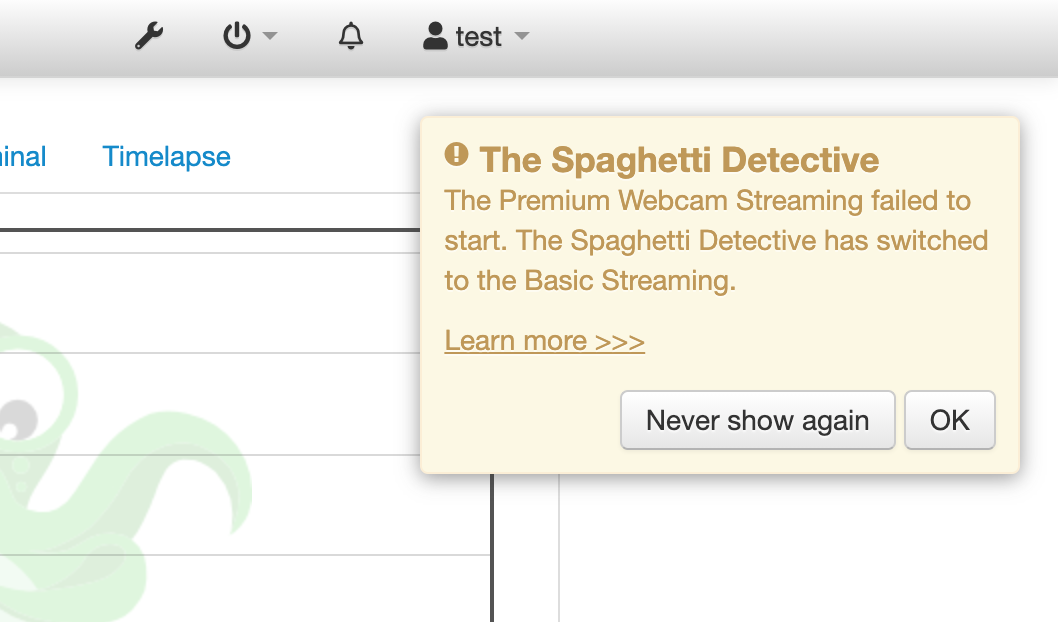
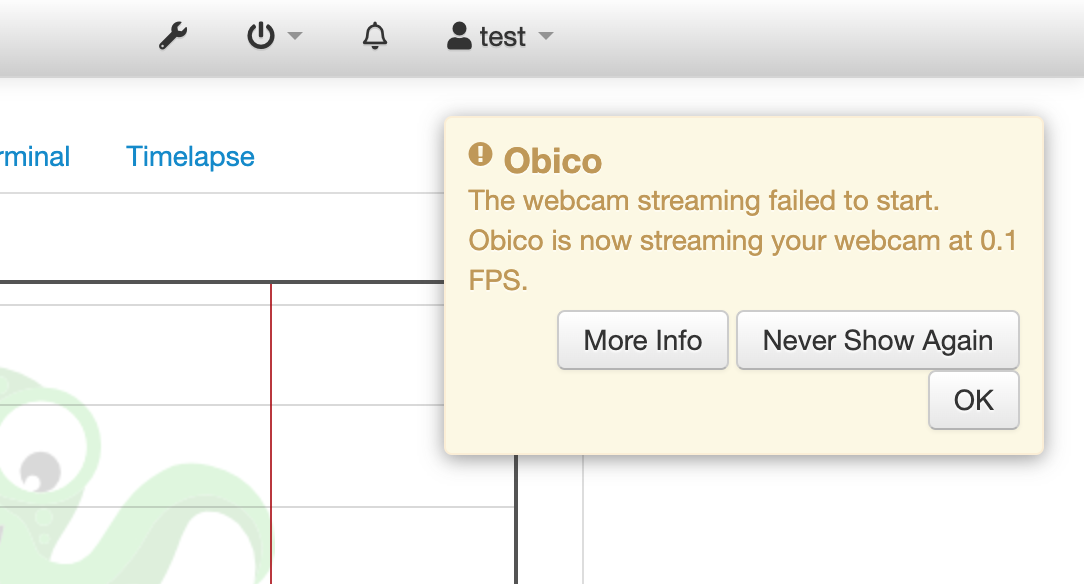
Webcam resolution docs updated

diff --git a/website/sidebars.js b/website/sidebars.js
@@ -23,24 +23,13 @@ module.exports = {
     },
     {
       type: 'category',
-      label: 'Obico for OctoPrint',
-      items: ['user-guides/octoprint-plugin-setup-manual-link', 'user-guides/check-webcam-streaming-mode', 'user-guides/octoprint-webcam-not-streaming'],
-    },
-    {
-      type: 'category',
-      label: 'Obico for Klipper',
-      link: {type: 'doc', id: 'user-guides/moonraker-obico/overview'},
-      items: ['user-guides/moonraker-obico/config', 'user-guides/moonraker-obico/logging-file', 'user-guides/moonraker-obico/update-manager', 'user-guides/moonraker-obico/uninstall'],
+      label: 'Obico App (Mobile & Web)',
+      items: ['user-guides/detection-print-job-settings', 'user-guides/printer-feed-sharing', 'user-guides/notification-settings'],
     },
     {
       type: 'category',
       label: 'Failure Detection',
       items: ['user-guides/how-to-test-failure-detection', 'user-guides/failure-detection-false-alarms', 'user-guides/optimal-camera-setup', 'user-guides/how-does-credits-work', 'user-guides/help-the-detective-improve', 'user-guides/detective-not-watching',],
-    },
-    {
-      type: 'category',
-      label: 'Use The App',
-      items: ['user-guides/detection-print-job-settings', 'user-guides/printer-feed-sharing', 'user-guides/octoprint-tunneling', 'user-guides/notification-settings'],
     },
     {
       type: 'category',
@@ -88,6 +77,29 @@ module.exports = {
         'user-guides/turn-on-debug-logging',
         'user-guides/send-mobile-app-log-files',
       ],
+    },
+    {
+      type: 'category',
+      label: 'Obico for OctoPrint',
+      items: [
+        'user-guides/octoprint-plugin-setup-manual-link',
+        'user-guides/octoprint-tunneling',
+        {
+          type: 'category',
+          label: 'Webcam Settings',
+          items: [
+            'user-guides/webcam-streaming-resolution-framerate-octoprint',
+            'user-guides/check-webcam-streaming-mode',
+            'user-guides/octoprint-webcam-not-streaming',
+          ],
+        },
+      ],
+    },
+    {
+      type: 'category',
+      label: 'Obico for Klipper',
+      link: {type: 'doc', id: 'user-guides/moonraker-obico/overview'},
+      items: ['user-guides/moonraker-obico/config', 'user-guides/webcam-streaming-resolution-framerate-klipper', 'user-guides/moonraker-obico/logging-file', 'user-guides/moonraker-obico/update-manager', 'user-guides/moonraker-obico/uninstall'],
     },
     'user-guides/contact-us-for-support',
   ],

diff --git a/website/docs/user-guides/webcam-streaming-resolution-framerate-octoprint.md b/website/docs/user-guides/webcam-streaming-resolution-framerate-octoprint.md
@@ -1,0 +1,113 @@
+---
+title: Webcam streaming resolution and frame rate (OctoPrint)
+---
+
+:::tip
+Most of the time you can leave the Obico for OctoPrint to pick the appropriate webcam streaming resolution and frame rate. You don't have to worry about them.
+:::
+
+:::caution
+If you are using a Raspberry Pi, please keep in mind that it has a weak CPU. If the resolution and/or frame rate is set to high, it may overwhelm the Pi's CPU and hence cause print quality issues.
+:::
+
+## Find out your webcam's streaming mode. {#find-out-your-webcams-streaming-mode}
+
+The resolution and frame rate depends on the webcam's streaming mode.
+
+Follow [this guide](/docs/user-guides/check-webcam-streaming-mode) to find out the webcam streaming mode.
+
+:::info
+Learn more about [Premium Streaming vs Basic Streaming](/docs/user-guides/webcam-streaming-for-human-eyes).
+:::
+
+:::info
+Learn more about [advanced mode and compatibility mode](/docs/user-guides/streaming-compatibility-mode).
+:::
+
+## "**Premium (advanced)**" streaming mode: {#if-the-streaming-mode-is-premium-advanced}
+
+This means the webcam is in the Premium Streaming (advanced mode). In this mode, there are only limited options for resolutions and frame rates.
+
+**If you want to set your own resolution and frame rate, you will need to [change the compatibility mode to "always"](/docs/user-guides/streaming-compatibility-mode#when-should-i-always-stream-in-the-compatibility-mode), then follow [the instructions for Premium Streaming (compatibility mode)](#if-the-streaming-mode-is-premium-compatibility-or-basic).**
+
+:::info
+The Premium Streaming (advanced mode) has to take total control of the webcam, such as the resolution, frame rate, auto-focus, etc., so that the stream can be encoded in highly-efficient H.264.
+:::
+
+:::note
+If you have changed webcam settings in "octopi.txt", you may be surprised to see these settings are no longer effective in the Premium Streaming (advanced mode).
+:::
+
+### Frame rate {#frame-rate}
+
+In the Premium Streaming (advanced mode), the frame rate is always 25 FPS (frames-per-second).
+
+### Resolution {#resolution}
+
+In the Premium Streaming (advanced mode), the webcam resolution depends on if you have a Pi Camera or a USB camera.
+
+#### If you have a Pi Camera: {#if-you-have-a-pi-camera}
+
+:::info
+Learn more about the [Pi Camera](https://projects.raspberrypi.org/en/projects/getting-started-with-picamera).
+:::
+
+If you have a Pi Camera, you can find or change its current resolution on the plugin's settings page.
+
+1. Open OctoPrint settings page by clicking the wrench icon (**🔧**).
+2. Scroll down the navigation bar on the left side.
+3. Click "Obico for OctoPrint" tab.
+4. Click the "Settings" button.
+
+![](/img/user-guides/helpdocs/tsd-plugin-open-settings-page.gif)
+
+Pi Camera's current resolution level is in the "Premium Streaming" section.
+
+If the webcam aspect ratio setting in OctoPrint is 4:3 (default):
+
+* Low: 320x240
+* Medium: 640x480
+* High: 1296x972
+* Ultra high: 1640x1232
+
+If you have changed the webcam aspect ratio setting in OctoPrint to 16:9:
+
+* Low: 480x270
+* Medium: 960x540
+* High: 1640x922
+* Ultra high: 1920x1080
+
+#### If you have a USB camera: {#if-you-have-a-usb-camera}
+
+When you have a USB camera and its streaming mode is "Premium (advanced)", the resolution is fixed at 640x480. This is due to some technical limitations on how the Premium streaming works in advanced mode. Your best option is to leave it as is.
+
+However, if you really want to change the resolution and/or the frame rate, follow these 2 steps:
+
+1. [Change the compatibility mode to "always"](/docs/user-guides/streaming-compatibility-mode#when-should-i-always-stream-in-the-compatibility-mode).
+
+2. Change the resolution and/or frame rate as instructed in [this section](#if-the-streaming-mode-is-premium-compatibility-or-basic).
+
+:::info
+There are simply too many USB camera models. 640x480 is the only resolution that all of them support. This is why the resolution is fixed at 640x480 in Premium Streaming (advanced mode).
+:::
+
+## Other streaming modes: {#if-the-streaming-mode-is-premium-compatibility-or-basic}
+
+:::danger
+When the webcam is not in "**premium (advanced)**" streaming mode, raising resolution and/or frame rate above the default values may cause potential issues:
+
+- Excessive amount of CPU usage and [potentially print quality issues](streaming-compatibility-mode.md/#more-about-cpu-usage-in-compatibility-mode).
+- The webcam stream [may be buffering](webcam-feed-is-laggy.md/#buffering) a lot when the resolution is set too high. Raspberry Pi has a weak CPU so it can't handle the load of encoding high-resolution streams.
+
+Most Raspberry Pi 4 users have reported they can set the resolution to 800x600 without any noticeable print quality or webcam streaming issues. Use caution when you go above 800x600.
+:::
+
+When the webcam streaming is in "**Basic**" mode, "**Premium (compatibility)**",  or "**0.1FPS**" mode, the Obico for OctoPrint plugin won't change the resolution or the frame rate. Instead, they are set by the OctoPrint's original streaming process.
+
+* If you have set up OctoPrint using the official OctoPi image, head to this [OctoPrint help document](https://community.octoprint.org/t/how-can-i-change-mjpg-streamer-parameters-on-octopi/203) to learn about how you can change the resolution and/or frame rate.
+
+* If you have replaced the original OctoPrint streaming process with a custom one, such as an IP Camera, you need to refer to the user manual of your custom streaming process to find out how you can adjust the settings.
+
+:::tip
+If you are running OctoPrint on a Raspberry Pi, the OctoPrint's built-in streaming program is called "mjpeg-streamer".
+:::

diff --git a/website/docs/user-guides/webcam-streaming-resolution-framerate.md b/website/docs/user-guides/webcam-streaming-resolution-framerate.md
@@ -1,109 +1,7 @@
 ---
-id: webcam-streaming-resolution-framerate
 title: Webcam streaming resolution and frame rate
 ---
 
-:::tip
-Most of the time you can leave The Spaghetti Detective plugin to pick the appropriate webcam streaming resolution and frame rate. You don't have to worry about them.
-:::
+- If you are using Obico for OctoPrint, follow [this guide to change resolution and/or frame rate](./webcam-streaming-resolution-framerate-octoprint.md).
 
-:::caution
-If you are using a Raspberry Pi, please keep in mind that it has a weak CPU. If the resolution and/or frame rate is set to high, it may overwhelm the Pi's CPU and hence cause print quality issues.
-:::
-
-## Find out your webcam's streaming mode. {#find-out-your-webcams-streaming-mode}
-
-The resolution and frame rate depends on the webcam's streaming mode.
-
-Follow [this guide](/docs/user-guides/check-webcam-streaming-mode) to find out the webcam streaming mode.
-
-:::info
-Learn more about [Premium Streaming vs Basic Streaming](/docs/user-guides/webcam-streaming-for-human-eyes).
-:::
-
-:::info
-Learn more about [advanced mode and compatibility mode](/docs/user-guides/streaming-compatibility-mode).
-:::
-
-## If the streaming mode is "**premium (advanced)**": {#if-the-streaming-mode-is-premium-advanced}
-
-This means the webcam is in the Premium Streaming (advanced mode). In this mode, there are only limited options for resolutions and frame rates.
-
-**If you want to set your own resolution and frame rate, you will need to [change the compatibility mode to "always"](/docs/user-guides/streaming-compatibility-mode#when-should-i-always-stream-in-the-compatibility-mode), then follow [the instructions for Premium Streaming (compatibility mode)](#if-the-streaming-mode-is-premium-compatibility-or-basic).**
-
-:::info
-The Premium Streaming (advanced mode) has to take total control of the webcam, such as the resolution, frame rate, auto-focus, etc., so that the stream can be encoded in highly-efficient H.264.
-:::
-
-:::note
-If you have changed webcam settings in "octopi.txt", you may be surprised to see these settings are no longer effective in the Premium Streaming (advanced mode).
-:::
-
-### Frame rate {#frame-rate}
-
-In the Premium Streaming (advanced mode), the frame rate is always 25 FPS (frames-per-second).
-
-### Resolution {#resolution}
-
-In the Premium Streaming (advanced mode), the webcam resolution depends on if you have a Pi Camera or a USB camera.
-
-#### If you have a Pi Camera: {#if-you-have-a-pi-camera}
-
-:::info
-Learn more about the [Pi Camera](https://projects.raspberrypi.org/en/projects/getting-started-with-picamera).
-:::
-
-If you have a Pi Camera, you can find or change its current resolution on the plugin's settings page.
-
-1. Open OctoPrint settings page by clicking the wrench icon (**🔧**).
-2. Scroll down the navigation bar on the left side.
-3. Click "Obico for OctoPrint" tab.
-4. Click the "Settings" button.
-
-![](/img/user-guides/helpdocs/tsd-plugin-open-settings-page.gif)
-
-Pi Camera's current resolution level is in the "Premium Streaming" section.
-
-If the webcam aspect ratio setting in OctoPrint is 4:3 (default):
-
-* Low: 320x240
-* Medium: 640x480
-* High: 1296x972
-* Ultra high: 1640x1232
-
-If you have changed the webcam aspect ratio setting in OctoPrint to 16:9:
-
-* Low: 480x270
-* Medium: 960x540
-* High: 1640x922
-* Ultra high: 1920x1080
-
-#### If you have a USB camera: {#if-you-have-a-usb-camera}
-
-When you have a USB camera and its streaming mode is "Premium (advanced)", the resolution is fixed at 640x480. This is due to some technical limitations on how the Premium streaming works in advanced mode. Your best option is to leave it as is.
-
-However, if you really want to change the resolution and/or the frame rate, follow these 2 steps:
-
-1. [Change the compatibility mode to "always"](/docs/user-guides/streaming-compatibility-mode#when-should-i-always-stream-in-the-compatibility-mode).
-
-2. Change the resolution and/or frame rate as instructed in [this section](#if-the-streaming-mode-is-premium-compatibility-or-basic).
-
-:::info
-There are simply too many USB camera models. 640x480 is the only resolution that all of them support. This is why the resolution is fixed at 640x480 in Premium Streaming (advanced mode).
-:::
-
-## If the streaming mode is "**Premium (compatibility)**" or "**Basic**": {#if-the-streaming-mode-is-premium-compatibility-or-basic}
-
-When the webcam streaming is in "**Basic**" mode, or "**Premium (compatibility)**" mode, The Spaghetti Detective plugin won't change the resolution or the frame rate. Instead, they are set by the OctoPrint's original streaming process before The Spaghetti Detective plugin was installed.
-
-* If you have set up OctoPrint using the official OctoPi image, head to this [OctoPrint help document](https://community.octoprint.org/t/how-can-i-change-mjpg-streamer-parameters-on-octopi/203) to learn about how you can change the resolution and/or frame rate.
-
-* If you have replaced the original OctoPrint streaming process with a custom one, such as an IP Camera, you need to refer to the user manual of your custom streaming process to find out how you can adjust the settings.
-
-:::danger
-Raising resolution and/or frame rate above the default values may result in an excessive amount of CPU usage and potentially print quality issues.
-:::
-
-:::info
-If you are running OctoPrint on a Raspberry Pi, the OctoPrint's built-in streaming program is called "mjpeg-streamer".
-:::
+- If you are using Obico for Klipper, follow [this guide to change resolution and/or frame rate](./webcam-streaming-resolution-framerate-klipper.md).

diff --git a/website/docs/user-guides/check-webcam-streaming-mode.md b/website/docs/user-guides/check-webcam-streaming-mode.md
@@ -14,13 +14,17 @@ title: Check the webcam streaming mode
 
 ## 2. Check "Webcam streaming" in the "Plugin Status" column {#2-check-webcam-streaming-in-the-plugin-status-column}
 
-![](/img/user-guides/helpdocs/tsd-plugin-webcam-streaming-mode.png)
+<img style={{maxWidth: "332px", padding: "16px",}} src="/img/user-guides/helpdocs/tsd-plugin-webcam-streaming-mode-advanced.png"></img>
+<img style={{maxWidth: "332px", padding: "16px",}} src="/img/user-guides/helpdocs/tsd-plugin-webcam-streaming-mode-compat.png"></img>
+<img style={{maxWidth: "332px", padding: "16px",}} src="/img/user-guides/helpdocs/tsd-plugin-webcam-streaming-mode-basic.png"></img>
+<img style={{maxWidth: "332px", padding: "16px",}} src="/img/user-guides/helpdocs/tsd-plugin-webcam-streaming-mode-01fps.png"></img>
 
 The status can be one of the following:
 
 * "**premium (advanced)**" - Premium Streaming. Advanced mode.
 * "**Premium (compatibility)**" - Premium Streaming. Compatibility mode.
 * "**Basic**" - Basic Streaming.
+* "**0.1FPS**" - [Video streaming failed to start](http://localhost:3000/docs/user-guides/webcam-stream-stuck-at-1-10-fps/). The Obico plugin is now "streaming" by taking snapshots at 0.1FPS.
 
 :::info
 Learn more about [Premium Streaming vs Basic Streaming](/docs/user-guides/webcam-streaming-for-human-eyes).

diff --git a/website/docs/user-guides/webcam-feed-is-laggy.md b/website/docs/user-guides/webcam-feed-is-laggy.md
@@ -68,6 +68,7 @@ This may indicate a similar connection issue as the one above. But it may also i
 
 - [Test if your phone/computer's Internet connection is fast enough for the Premium Streaming](/docs/user-guides/premium-streaming-computer-phone-connection-speed).
 - [Test if the Raspberry Pi's Internet connection is fast enough for the Premium Streaming](/docs/user-guides/premium-streaming-raspberry-pi-connection-speed).
+- Make sure [the webcam resolution is not set too high](webcam-streaming-resolution-framerate-octoprint.md/#if-the-streaming-mode-is-premium-compatibility-or-basic).
 - Make sure your webcam is properly connected to the Raspberry Pi, and [is properly configured in OctoPrint](/docs/user-guides/octoprint-webcam-not-streaming/#3-check-if-the-webcam-is-configured-correctly-in-octoprint).
 - If you are using the mobile app, check it in the web app to see if you have the same problem. If you are using the web app, check it in the mobile app, or check it in a different browser.
 - If everything is ruled out, try to [set the streaming to "**Always stream in compatibility mode**"](/docs/user-guides/streaming-compatibility-mode/#how-to-change-the-compatibility-mode-setting). Restart OctoPrint and see if the "Buffering" warning goes away and the Premium Stream is smooth now.

diff --git a/website/docs/user-guides/webcam-streaming-resolution-framerate-klipper.md b/website/docs/user-guides/webcam-streaming-resolution-framerate-klipper.md
@@ -1,0 +1,26 @@
+---
+title: Webcam streaming resolution and frame rate (Klipper)
+---
+
+:::danger
+Raising resolution above 640x480 may cause potential issues:
+
+- Excessive amount of CPU usage and [potentially print quality issues](streaming-compatibility-mode.md/#more-about-cpu-usage-in-compatibility-mode).
+- The webcam stream [may be buffering](webcam-feed-is-laggy.md/#buffering) a lot when the resolution is set too high. Raspberry Pi has a weak CPU so it can't handle the load of encoding high-resolution streams.
+
+Most Raspberry Pi 4 users have reported they can set the resolution to 800x600 without any noticeable print quality or webcam streaming issues. Use caution when you go above 800x600.
+:::
+
+## Resolution
+
+Obico for Klipper does webcam streaming at the same resolution as the configured webcam source configured in Mainsail/Fluidd.
+
+When you change the resolution in the configured webcam source, Obico will change accordingly after the Raspberry Pi is rebooted.
+
+## Framerate
+
+The frame rate is up to 25FPS for the Premium Streaming, and up to 5FPS for the Basic Streaming. It is currently not configurable.
+
+:::info
+Learn more about [Premium Streaming vs Basic Streaming](/docs/user-guides/webcam-streaming-for-human-eyes).
+:::

diff --git a/website/docs/user-guides/moonraker-obico/config.md b/website/docs/user-guides/moonraker-obico/config.md
@@ -1,6 +1,6 @@
 ---
 id: config
-title: moonraker-obico.cfg
+title: Configurations
 ---
 
 Following Klipper toolchain's convention, the configuration file for **Obico for Klipper** is typically located at `~/klipper_config/moonraker-obico.cfg`
